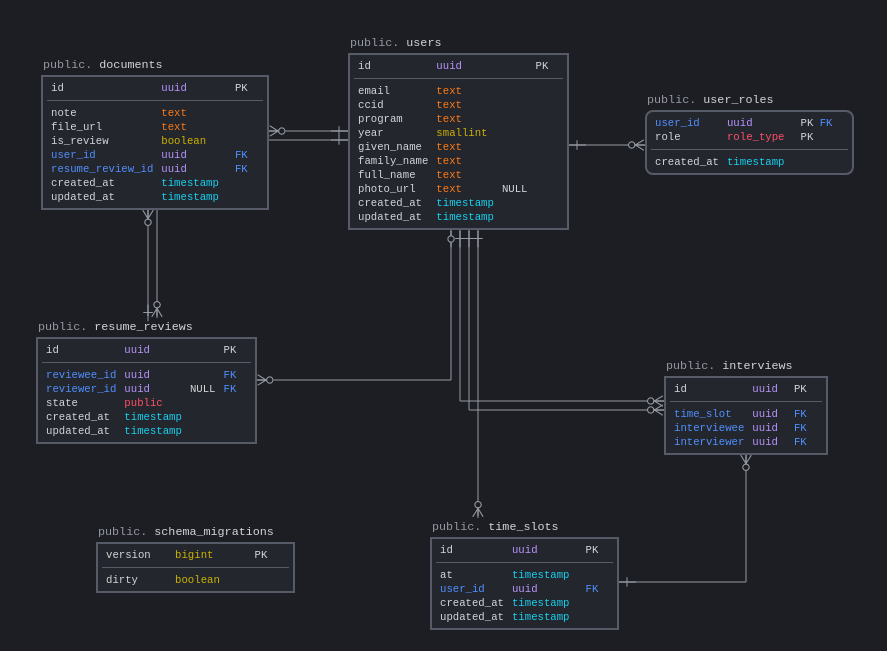
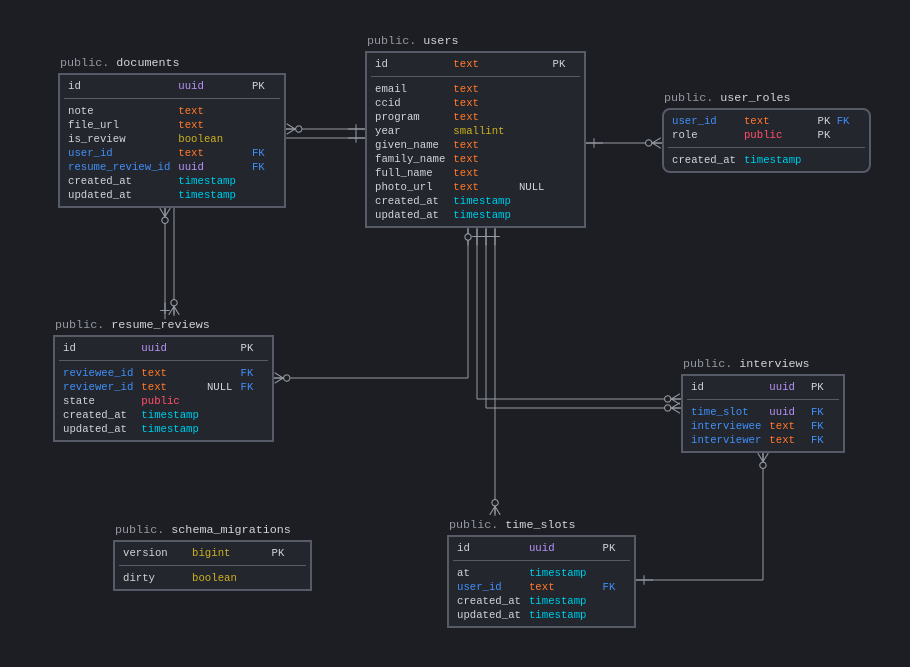
Update Postgres schema to support authorization (#144)
* Draft of adding student role

* Update tool to use student instead of user role name

* Add student role type

* Update schema to support Auth0 user id instead of UUID

* Update schema.png

* Update Zapatos schema

Changed region(s): [[0.0304, 0.0614, 0.9741, 0.9831], [0.0913, 0.768, 0.3348, 0.9217]]

diff --git a/api/src/zapatos/schema.d.ts b/api/src/zapatos/schema.d.ts
@@ -22,9 +22,9 @@ declare module 'zapatos/schema' {
   export namespace every {
     export type resume_review_state = ['canceled', 'finished', 'reviewing', 'seeking_reviewer'];
   }
-  export type role_type = 'admin' | 'interviewer' | 'reviewer';
+  export type role_type = 'admin' | 'interviewer' | 'reviewer' | 'student';
   export namespace every {
-    export type role_type = ['admin', 'interviewer', 'reviewer'];
+    export type role_type = ['admin', 'interviewer', 'reviewer', 'student'];
   }
 
   /* --- tables --- */
@@ -58,7 +58,7 @@ declare module 'zapatos/schema' {
       is_review: boolean;
       /**
       * **documents.user_id**
-      * - `uuid` in database
+      * - `text` in database
       * - `NOT NULL`, no default
       */
       user_id: string;
@@ -108,7 +108,7 @@ declare module 'zapatos/schema' {
       is_review: boolean;
       /**
       * **documents.user_id**
-      * - `uuid` in database
+      * - `text` in database
       * - `NOT NULL`, no default
       */
       user_id: string;
@@ -158,7 +158,7 @@ declare module 'zapatos/schema' {
       is_review?: boolean | db.Parameter<boolean> | db.SQLFragment | db.ParentColumn | db.SQLFragment<any, boolean | db.Parameter<boolean> | db.SQLFragment | db.ParentColumn>;
       /**
       * **documents.user_id**
-      * - `uuid` in database
+      * - `text` in database
       * - `NOT NULL`, no default
       */
       user_id?: string | db.Parameter<string> | db.SQLFragment | db.ParentColumn | db.SQLFragment<any, string | db.Parameter<string> | db.SQLFragment | db.ParentColumn>;
@@ -202,7 +202,7 @@ declare module 'zapatos/schema' {
       is_review: boolean | db.Parameter<boolean> | db.SQLFragment;
       /**
       * **documents.user_id**
-      * - `uuid` in database
+      * - `text` in database
       * - `NOT NULL`, no default
       */
       user_id: string | db.Parameter<string> | db.SQLFragment;
@@ -234,7 +234,7 @@ declare module 'zapatos/schema' {
       is_review?: boolean | db.Parameter<boolean> | db.SQLFragment | db.SQLFragment<any, boolean | db.Parameter<boolean> | db.SQLFragment>;
       /**
       * **documents.user_id**
-      * - `uuid` in database
+      * - `text` in database
       * - `NOT NULL`, no default
       */
       user_id?: string | db.Parameter<string> | db.SQLFragment | db.SQLFragment<any, string | db.Parameter<string> | db.SQLFragment>;
@@ -269,13 +269,13 @@ declare module 'zapatos/schema' {
       time_slot: string;
       /**
       * **interviews.interviewee**
-      * - `uuid` in database
+      * - `text` in database
       * - `NOT NULL`, no default
       */
       interviewee: string;
       /**
       * **interviews.interviewer**
-      * - `uuid` in database
+      * - `text` in database
       * - `NOT NULL`, no default
       */
       interviewer: string;
@@ -295,13 +295,13 @@ declare module 'zapatos/schema' {
       time_slot: string;
       /**
       * **interviews.interviewee**
-      * - `uuid` in database
+      * - `text` in database
       * - `NOT NULL`, no default
       */
       interviewee: string;
       /**
       * **interviews.interviewer**
-      * - `uuid` in database
+      * - `text` in database
       * - `NOT NULL`, no default
       */
       interviewer: string;
@@ -321,13 +321,13 @@ declare module 'zapatos/schema' {
       time_slot?: string | db.Parameter<string> | db.SQLFragment | db.ParentColumn | db.SQLFragment<any, string | db.Parameter<string> | db.SQLFragment | db.ParentColumn>;
       /**
       * **interviews.interviewee**
-      * - `uuid` in database
+      * - `text` in database
       * - `NOT NULL`, no default
       */
       interviewee?: string | db.Parameter<string> | db.SQLFragment | db.ParentColumn | db.SQLFragment<any, string | db.Parameter<string> | db.SQLFragment | db.ParentColumn>;
       /**
       * **interviews.interviewer**
-      * - `uuid` in database
+      * - `text` in database
       * - `NOT NULL`, no default
       */
       interviewer?: string | db.Parameter<string> | db.SQLFragment | db.ParentColumn | db.SQLFragment<any, string | db.Parameter<string> | db.SQLFragment | db.ParentColumn>;
@@ -341,13 +341,13 @@ declare module 'zapatos/schema' {
       time_slot: string | db.Parameter<string> | db.SQLFragment;
       /**
       * **interviews.interviewee**
-      * - `uuid` in database
+      * - `text` in database
       * - `NOT NULL`, no default
       */
       interviewee: string | db.Parameter<string> | db.SQLFragment;
       /**
       * **interviews.interviewer**
-      * - `uuid` in database
+      * - `text` in database
       * - `NOT NULL`, no default
       */
       interviewer: string | db.Parameter<string> | db.SQLFragment;
@@ -361,13 +361,13 @@ declare module 'zapatos/schema' {
       time_slot?: string | db.Parameter<string> | db.SQLFragment | db.SQLFragment<any, string | db.Parameter<string> | db.SQLFragment>;
       /**
       * **interviews.interviewee**
-      * - `uuid` in database
+      * - `text` in database
       * - `NOT NULL`, no default
       */
       interviewee?: string | db.Parameter<string> | db.SQLFragment | db.SQLFragment<any, string | db.Parameter<string> | db.SQLFragment>;
       /**
       * **interviews.interviewer**
-      * - `uuid` in database
+      * - `text` in database
       * - `NOT NULL`, no default
       */
       interviewer?: string | db.Parameter<string> | db.SQLFragment | db.SQLFragment<any, string | db.Parameter<string> | db.SQLFragment>;
@@ -390,13 +390,13 @@ declare module 'zapatos/schema' {
       id: string;
       /**
       * **resume_reviews.reviewee_id**
-      * - `uuid` in database
+      * - `text` in database
       * - `NOT NULL`, no default
       */
       reviewee_id: string;
       /**
       * **resume_reviews.reviewer_id**
-      * - `uuid` in database
+      * - `text` in database
       * - Nullable, no default
       */
       reviewer_id: string | null;
@@ -428,13 +428,13 @@ declare module 'zapatos/schema' {
       id: string;
       /**
       * **resume_reviews.reviewee_id**
-      * - `uuid` in database
+      * - `text` in database
       * - `NOT NULL`, no default
       */
       reviewee_id: string;
       /**
       * **resume_reviews.reviewer_id**
-      * - `uuid` in database
+      * - `text` in database
       * - Nullable, no default
       */
       reviewer_id: string | null;
@@ -466,13 +466,13 @@ declare module 'zapatos/schema' {
       id?: string | db.Parameter<string> | db.SQLFragment | db.ParentColumn | db.SQLFragment<any, string | db.Parameter<string> | db.SQLFragment | db.ParentColumn>;
       /**
       * **resume_reviews.reviewee_id**
-      * - `uuid` in database
+      * - `text` in database
       * - `NOT NULL`, no default
       */
       reviewee_id?: string | db.Parameter<string> | db.SQLFragment | db.ParentColumn | db.SQLFragment<any, string | db.Parameter<string> | db.SQLFragment | db.ParentColumn>;
       /**
       * **resume_reviews.reviewer_id**
-      * - `uuid` in database
+      * - `text` in database
       * - Nullable, no default
       */
       reviewer_id?: string | db.Parameter<string> | db.SQLFragment | db.ParentColumn | db.SQLFragment<any, string | db.Parameter<string> | db.SQLFragment | db.ParentColumn>;
@@ -498,13 +498,13 @@ declare module 'zapatos/schema' {
     export interface Insertable {
       /**
       * **resume_reviews.reviewee_id**
-      * - `uuid` in database
+      * - `text` in database
       * - `NOT NULL`, no default
       */
       reviewee_id: string | db.Parameter<string> | db.SQLFragment;
       /**
       * **resume_reviews.reviewer_id**
-      * - `uuid` in database
+      * - `text` in database
       * - Nullable, no default
       */
       reviewer_id?: string | db.Parameter<string> | null | db.DefaultType | db.SQLFragment;
@@ -518,13 +518,13 @@ declare module 'zapatos/schema' {
     export interface Updatable {
       /**
       * **resume_reviews.reviewee_id**
-      * - `uuid` in database
+      * - `text` in database
       * - `NOT NULL`, no default
       */
       reviewee_id?: string | db.Parameter<string> | db.SQLFragment | db.SQLFragment<any, string | db.Parameter<string> | db.SQLFragment>;
       /**
       * **resume_reviews.reviewer_id**
-      * - `uuid` in database
+      * - `text` in database
       * - Nullable, no default
       */
       reviewer_id?: string | db.Parameter<string> | null | db.DefaultType | db.SQLFragment | db.SQLFragment<any, string | db.Parameter<string> | null | db.DefaultType | db.SQLFragment>;
@@ -559,7 +559,7 @@ declare module 'zapatos/schema' {
       at: Date;
       /**
       * **time_slots.user_id**
-      * - `uuid` in database
+      * - `text` in database
       * - `NOT NULL`, no default
       */
       user_id: string;
@@ -591,7 +591,7 @@ declare module 'zapatos/schema' {
       at: db.TimestampTzString;
       /**
       * **time_slots.user_id**
-      * - `uuid` in database
+      * - `text` in database
       * - `NOT NULL`, no default
       */
       user_id: string;
@@ -623,7 +623,7 @@ declare module 'zapatos/schema' {
       at?: (db.TimestampTzString | Date) | db.Parameter<(db.TimestampTzString | Date)> | db.SQLFragment | db.ParentColumn | db.SQLFragment<any, (db.TimestampTzString | Date) | db.Parameter<(db.TimestampTzString | Date)> | db.SQLFragment | db.ParentColumn>;
       /**
       * **time_slots.user_id**
-      * - `uuid` in database
+      * - `text` in database
       * - `NOT NULL`, no default
       */
       user_id?: string | db.Parameter<string> | db.SQLFragment | db.ParentColumn | db.SQLFragment<any, string | db.Parameter<string> | db.SQLFragment | db.ParentColumn>;
@@ -649,7 +649,7 @@ declare module 'zapatos/schema' {
       at: (db.TimestampTzString | Date) | db.Parameter<(db.TimestampTzString | Date)> | db.SQLFragment;
       /**
       * **time_slots.user_id**
-      * - `uuid` in database
+      * - `text` in database
       * - `NOT NULL`, no default
       */
       user_id: string | db.Parameter<string> | db.SQLFragment;
@@ -663,7 +663,7 @@ declare module 'zapatos/schema' {
       at?: (db.TimestampTzString | Date) | db.Parameter<(db.TimestampTzString | Date)> | db.SQLFragment | db.SQLFragment<any, (db.TimestampTzString | Date) | db.Parameter<(db.TimestampTzString | Date)> | db.SQLFragment>;
       /**
       * **time_slots.user_id**
-      * - `uuid` in database
+      * - `text` in database
       * - `NOT NULL`, no default
       */
       user_id?: string | db.Parameter<string> | db.SQLFragment | db.SQLFragment<any, string | db.Parameter<string> | db.SQLFragment>;
@@ -680,7 +680,7 @@ declare module 'zapatos/schema' {
     export interface Selectable {
       /**
       * **user_roles.user_id**
-      * - `uuid` in database
+      * - `text` in database
       * - `NOT NULL`, no default
       */
       user_id: string;
@@ -700,7 +700,7 @@ declare module 'zapatos/schema' {
     export interface JSONSelectable {
       /**
       * **user_roles.user_id**
-      * - `uuid` in database
+      * - `text` in database
       * - `NOT NULL`, no default
       */
       user_id: string;
@@ -720,7 +720,7 @@ declare module 'zapatos/schema' {
     export interface Whereable {
       /**
       * **user_roles.user_id**
-      * - `uuid` in database
+      * - `text` in database
       * - `NOT NULL`, no default
       */
       user_id?: string | db.Parameter<string> | db.SQLFragment | db.ParentColumn | db.SQLFragment<any, string | db.Parameter<string> | db.SQLFragment | db.ParentColumn>;
@@ -740,7 +740,7 @@ declare module 'zapatos/schema' {
     export interface Insertable {
       /**
       * **user_roles.user_id**
-      * - `uuid` in database
+      * - `text` in database
       * - `NOT NULL`, no default
       */
       user_id: string | db.Parameter<string> | db.SQLFragment;
@@ -766,8 +766,8 @@ declare module 'zapatos/schema' {
     export interface Selectable {
       /**
       * **users.id**
-      * - `uuid` in database
-      * - `NOT NULL`, default: `uuid_generate_v4()`
+      * - `text` in database
+      * - `NOT NULL`, no default
       */
       id: string;
       /**
@@ -834,8 +834,8 @@ declare module 'zapatos/schema' {
     export interface JSONSelectable {
       /**
       * **users.id**
-      * - `uuid` in database
-      * - `NOT NULL`, default: `uuid_generate_v4()`
+      * - `text` in database
+      * - `NOT NULL`, no default
       */
       id: string;
       /**
@@ -902,8 +902,8 @@ declare module 'zapatos/schema' {
     export interface Whereable {
       /**
       * **users.id**
-      * - `uuid` in database
-      * - `NOT NULL`, default: `uuid_generate_v4()`
+      * - `text` in database
+      * - `NOT NULL`, no default
       */
       id?: string | db.Parameter<string> | db.SQLFragment | db.ParentColumn | db.SQLFragment<any, string | db.Parameter<string> | db.SQLFragment | db.ParentColumn>;
       /**

diff --git a/api/tools/getAuth.ts b/api/tools/getAuth.ts
@@ -43,7 +43,7 @@ const getEnv = (env: string) => {
             throw new Error('Incorrect number of args');
         }
         let role = process.argv[2];
-        if (!['user', 'reviewer', 'interviewer', 'admin'].includes(role)) {
+        if (!['student', 'reviewer', 'interviewer', 'admin'].includes(role)) {
             throw new Error('Invalid role');
         }
         role = role.toUpperCase();
